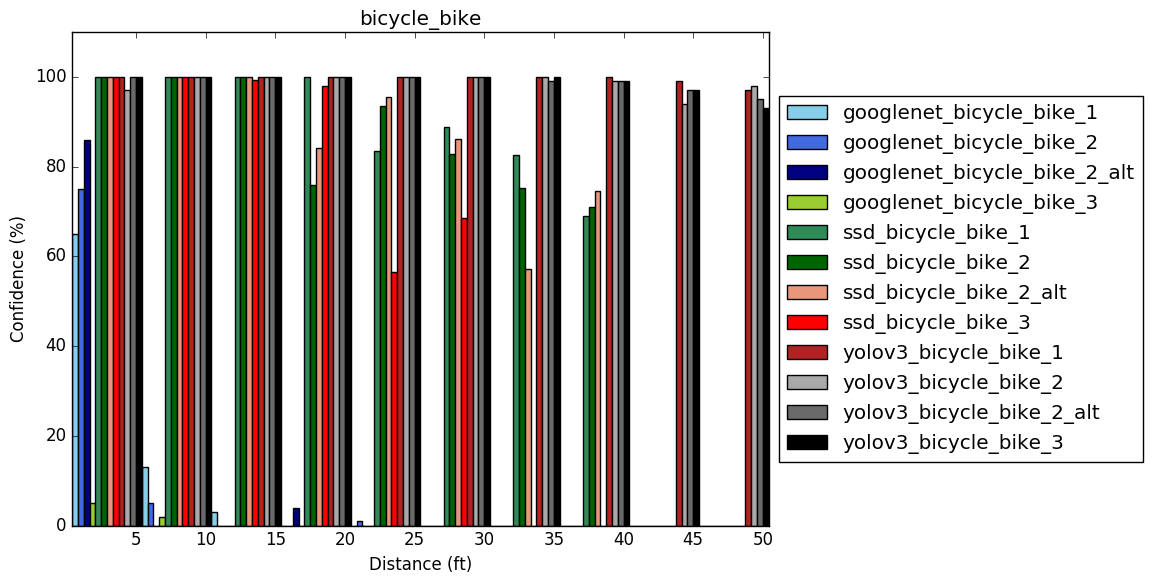
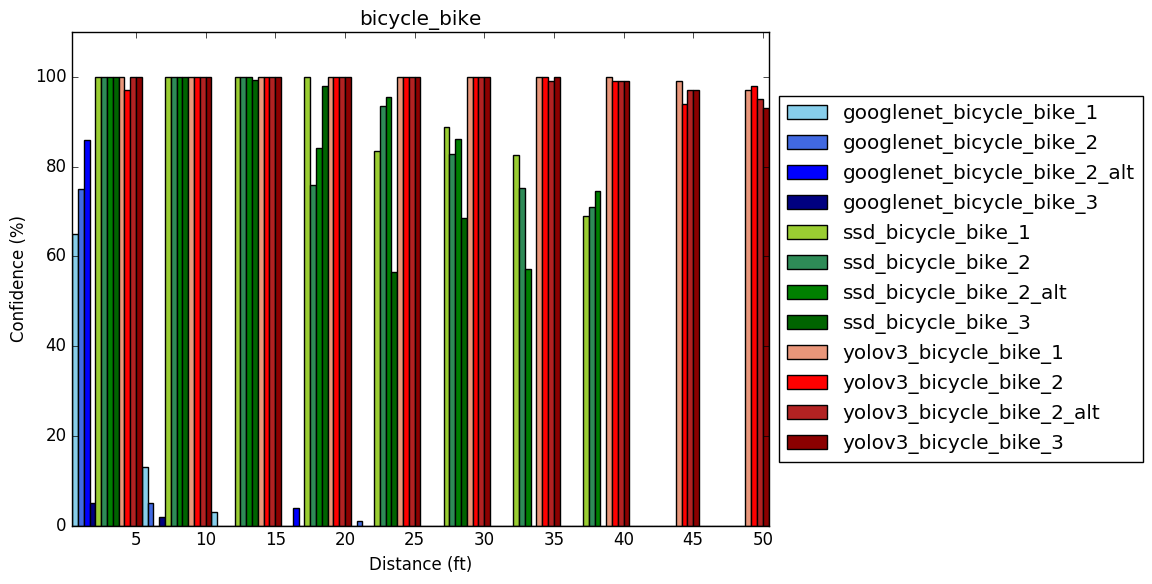
Added option for 3 or 4 bar pairs for plot_multi_bar.py

Changed region(s): [[0.0625, 0.1233, 0.7188, 0.9247]]

diff --git a/plot_multi_bar.py b/plot_multi_bar.py
@@ -9,8 +9,9 @@ rcParams.update({'figure.autolayout': True})
 markers = ["o","+","x","o","+","x","o","+","x"]
 lines   = ['--', '-.', ':','--', '-.', ':','--', '-.', ':']
 #colors  = ["blue", "red", "green", "orange", "yellow", "gray", "black","lightgreen", "ivory" ,"rosybrown", "royalblue", "saddlebrown", "salmon"]
-colors  = ["skyblue", "royalblue", "navy", "yellowgreen", "seagreen", "darkgreen", "darksalmon", "red", "firebrick", "darkgrey", "dimgrey", "black", "salmon"]
-
+colors_3_pairs  = ["skyblue", "royalblue", "navy", "yellowgreen", "seagreen", "darkgreen", "darksalmon", "red", "firebrick", "darkgrey", "dimgrey", "black", "salmon"]
+colors_4_pairs  = ["skyblue", "royalblue", "blue", "navy", "yellowgreen", "seagreen", "green", "darkgreen", "darksalmon", "red", "firebrick", "darkred", "grey", "darkgrey", "dimgrey", "black", "salmon"]
+colors = colors_3_pairs
 
 ##############################################################################
 # Loop throught the detections and plot them
